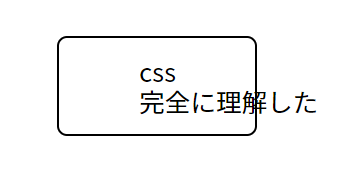
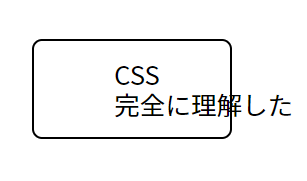
fix

Changed region(s): [[0.0879, 0.1989, 0.9674, 0.7955], [0.3518, 0.3409, 0.5277, 0.483]]

diff --git a/static/index.html b/static/index.html
@@ -3,13 +3,13 @@
 	<head>
 		<meta charset="utf-8">
 		<meta name="viewport" content="width=device-width">
-		<title>css完全に理解した</title>
+		<title>CSS完全に理解した</title>
 		<meta name="twitter:card" content="summary_large_image" />
 		<meta name="twitter:site" content="@rapidrabbit211" />
 		<meta property="og:url" content="https://fully-understood-css.deno.dev/" />
-		<meta property="og:title" content="css完全に理解した" />
-		<meta property="og:description" content="css完全に理解した" />
-		<meta property="og:image" content="https://fully-understood-css.deno.dev/image.png" /> 
+		<meta property="og:title" content="CSS完全に理解した" />
+		<meta property="og:description" content="CSS完全に理解した" />
+		<meta property="og:image" content="https://fully-understood-css.deno.dev/image.png" />
 		<link rel="preconnect" href="https://fonts.googleapis.com">
 		<link rel="preconnect" href="https://fonts.gstatic.com" crossorigin>
 		<link href="https://fonts.googleapis.com/css2?family=Noto+Sans+JP&display=swap" rel="stylesheet">
@@ -38,7 +38,7 @@
 	</head>
 	<body>
 		<div>
-			css<br>完全に理解した
+			CSS<br>完全に理解した
 		</div>
 	</body>
 </html>
